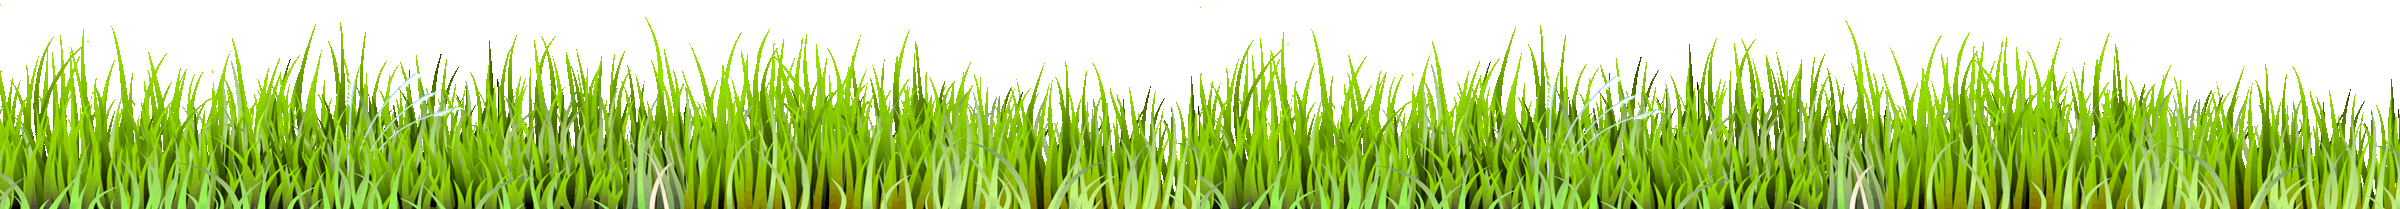
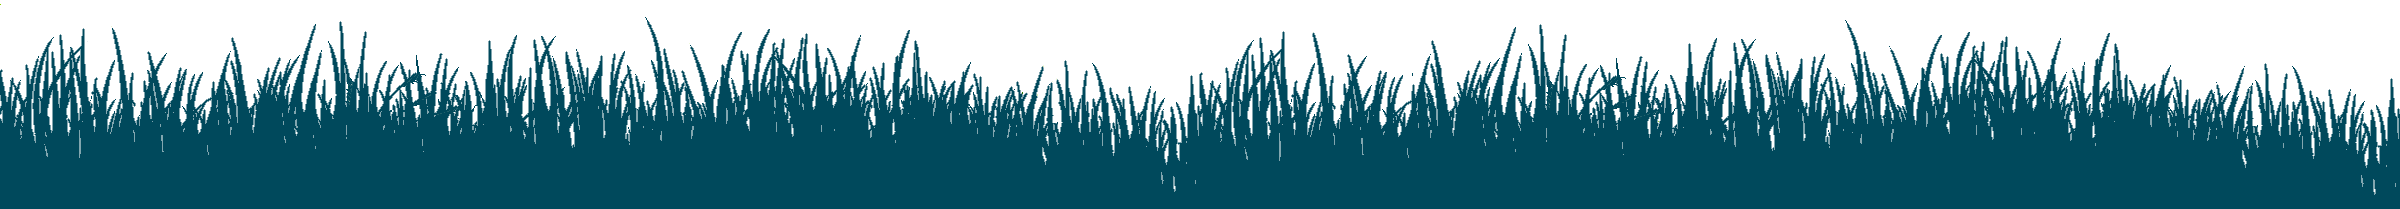
Fix footer image and adjust placement

diff --git a/static/css/style.css b/static/css/style.css
@@ -86,6 +86,10 @@ main {
     margin-bottom: 100px;
 }
 
+.footer-img {
+    margin-bottom: -40px;
+}
+
 h1 {
     color: #00495C;
 }
